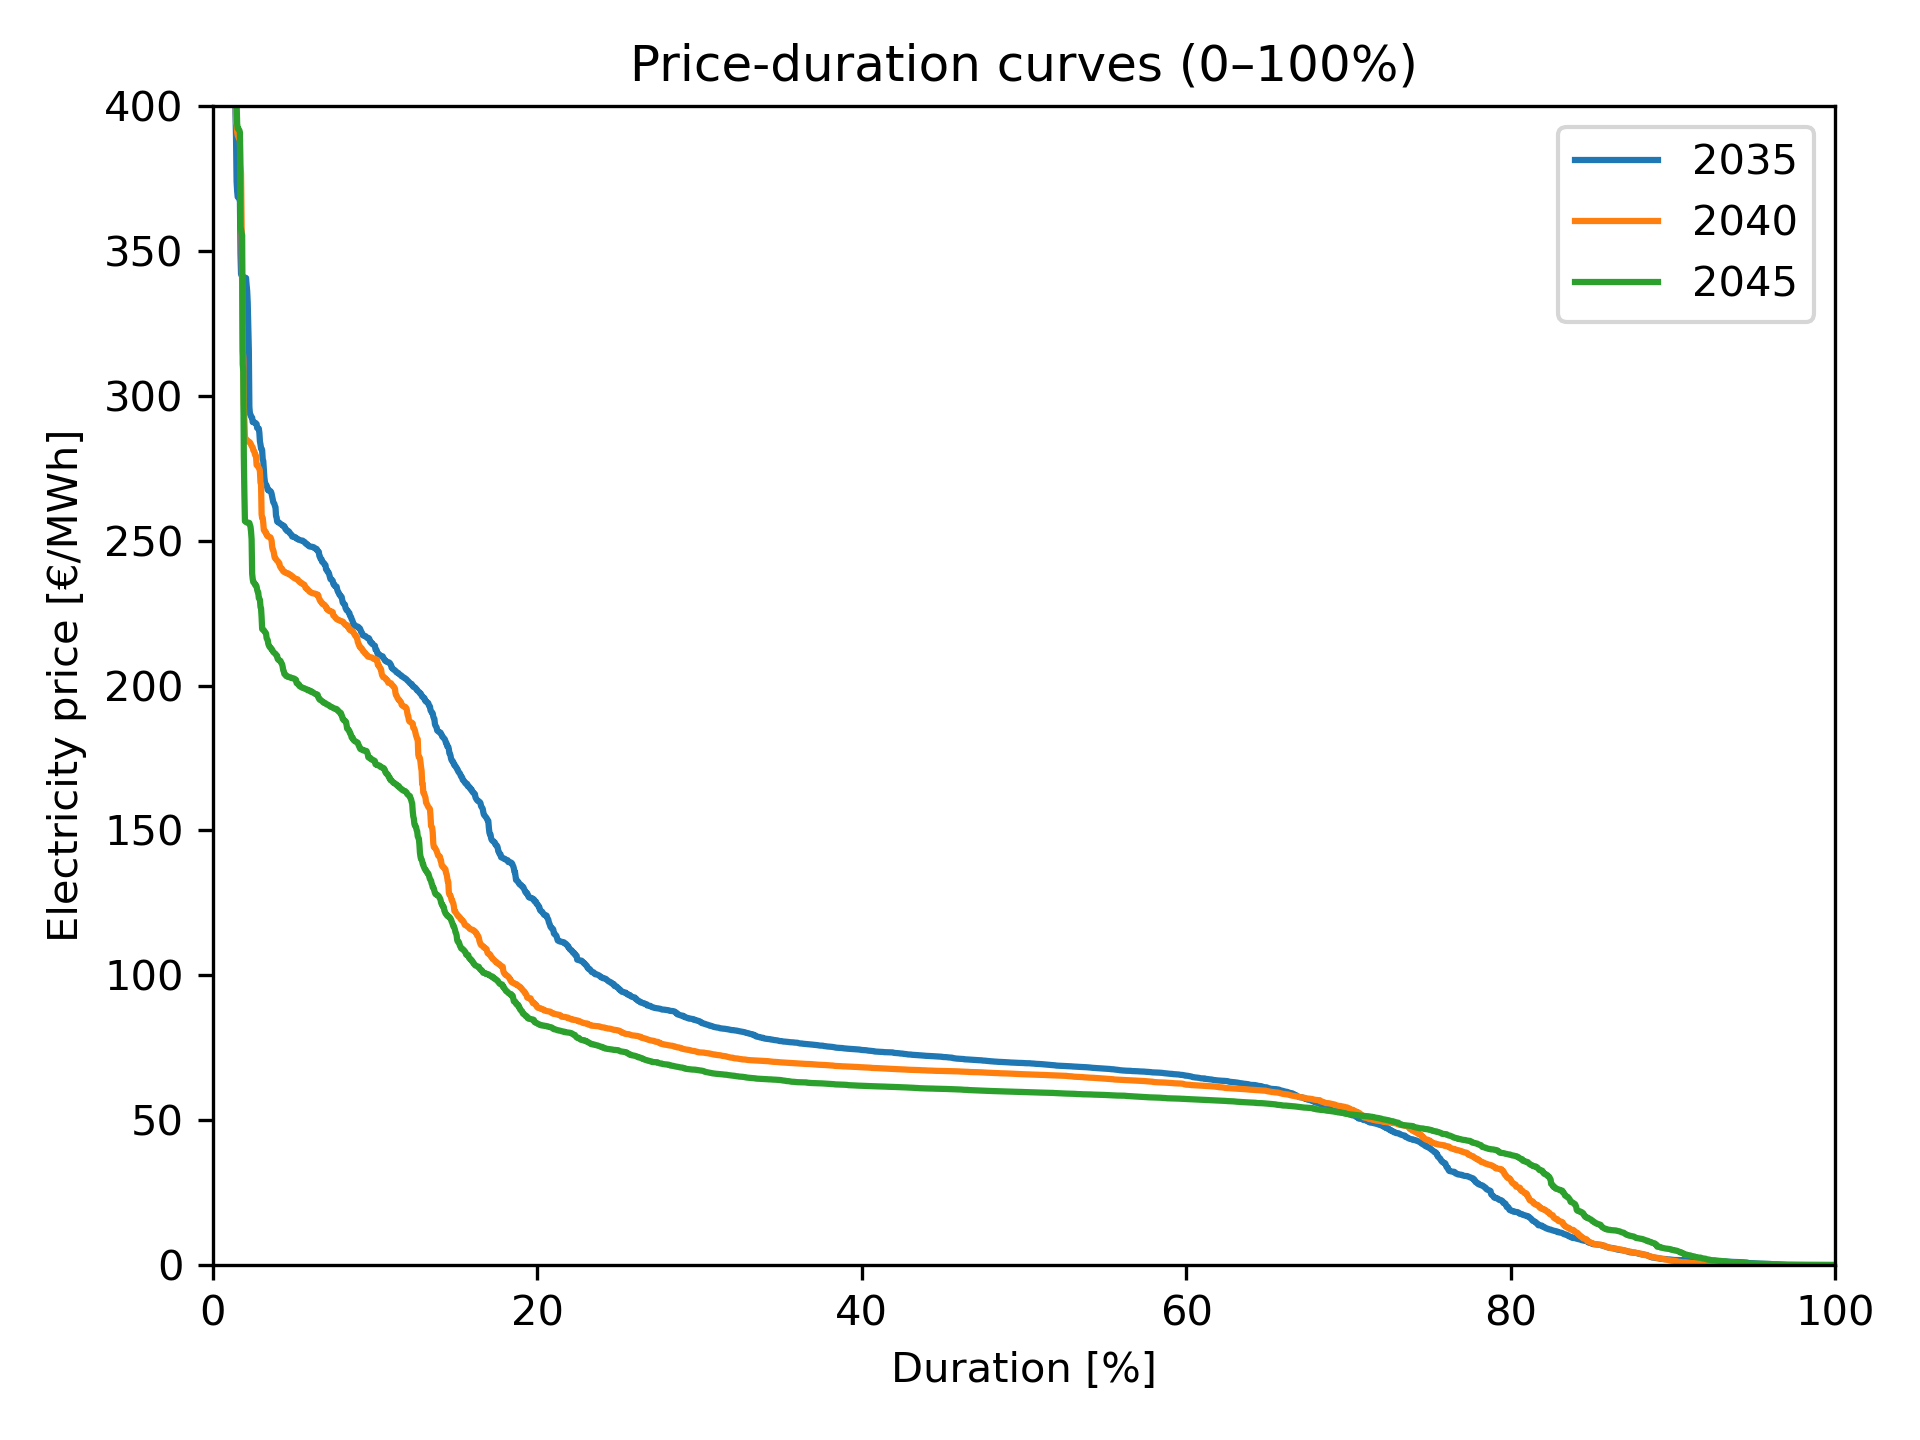
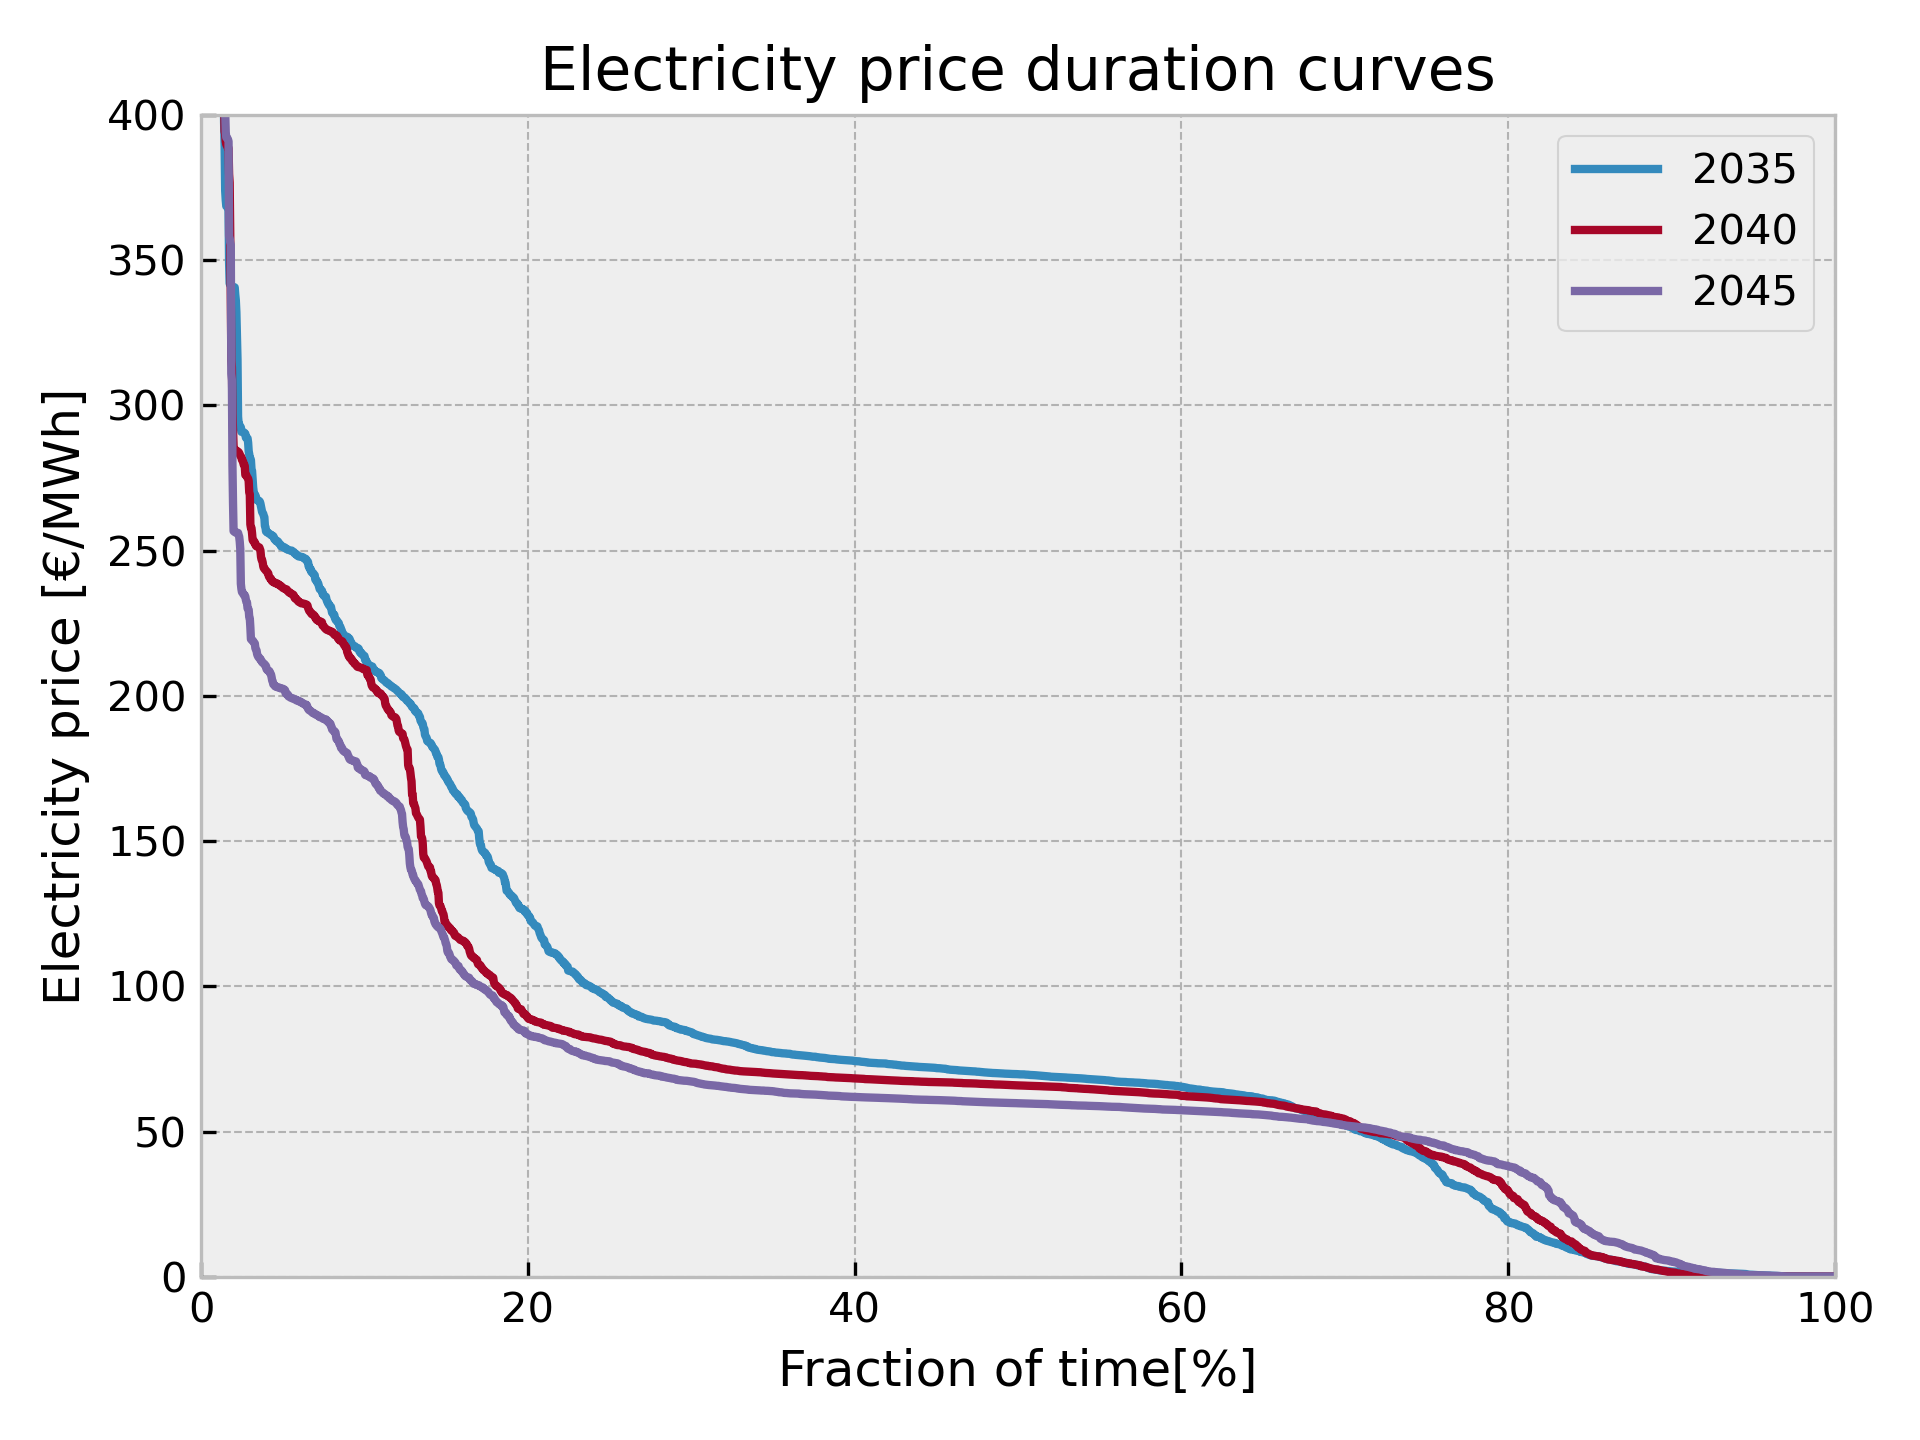
Adapt plot of Price-Duration-Curve

Changed region(s): [[0.0, 0.0312, 0.9688, 0.9688]]

diff --git a/functions.py b/functions.py
@@ -3,6 +3,8 @@ import re
 import pandas as pd
 import matplotlib.pyplot as plt
 
+plt.style.use("bmh")
+
 
 def load_electricity_price_timeseries(
     folder: str = "input/electricity_prices_pypsa_DE_timeseries"
@@ -89,7 +91,7 @@ def compute_price_duration_curve(df):
 
     for col in df.columns:
         # Drop NaN to avoid messing up the duration
-        s = df[col].dropna()
+        s = df[col]#.dropna()
 
         if s.empty:
             raise ValueError(f"Column '{col}' contains only NaN values.")
@@ -133,9 +135,9 @@ def plot_price_duration_curves(
     for col in pdc_df.columns:
         ax.plot(x_percent, pdc_df[col], label=str(col))
 
-    ax.set_xlabel("Duration [%]")
+    ax.set_xlabel("Fraction of time[%]")
     ax.set_ylabel("Electricity price [€/MWh]")
-    ax.set_title("Price-duration curves (0–100%)")
+    ax.set_title("Electricity price duration curves")
 
     if (y_min is not None) or (y_max is not None):
         ax.set_ylim(bottom=y_min, top=y_max)
